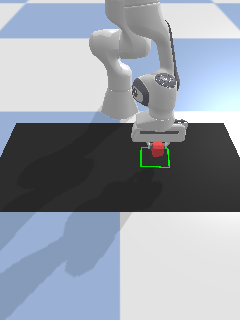
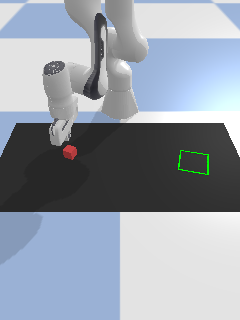
Aug 7, 2025, 3:19 PM

Changed region(s): [[0.175, 0.0, 0.7875, 0.5312], [0.0, 0.6562, 0.5542, 1.0], [0.7583, 0.4688, 0.875, 0.5625]]

diff --git a/Gripper_Robot_Sim/block_pushing/utils/franka_panda_sim_robot.py b/Gripper_Robot_Sim/block_pushing/utils/franka_panda_sim_robot.py
@@ -317,8 +317,7 @@ class GripperArmSimRobot:
         force = 7
         print("move gripper")
         
-        block_position = np.r_[block_position[0:2], 0.1]
-
+        block_position = np.r_[block_position[0:2], 0.1] # increase the height to avoid collision
         self.move_gripper_to_target (block_position, force)
         for _ in range(200):
             time.sleep(1 / 50)
@@ -333,7 +332,16 @@ class GripperArmSimRobot:
         joint_idx = 6 
         stateof6 = self.get_joint_state(joint_idx)
         print("how much twisted:", stateof6)
-        
+
+
+        block_position = np.r_[block_position[0:2], -0.1] # decrease the height to reach the block
+        self.move_gripper_to_target (block_position, force)
+        for _ in range(200):
+            time.sleep(1 / 50)
+            self._pybullet_client.stepSimulation()
+            time.sleep(1 / 240.0)
+
+
         self._is_grasped = True
         
         force = 0.8
